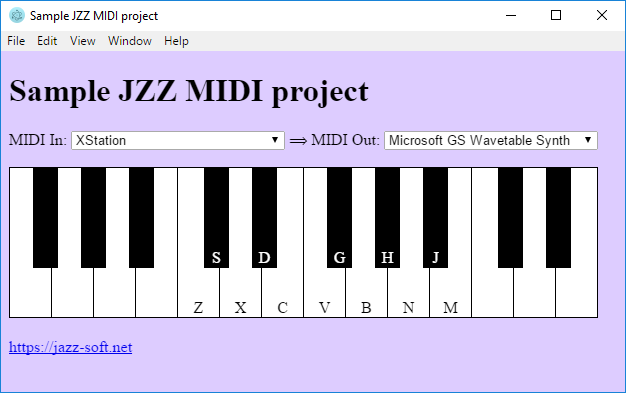
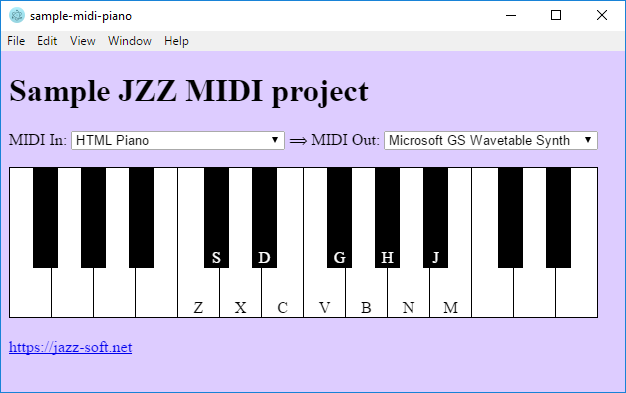
Adding another demo

Changed region(s): [[0.0304, 0.0305, 0.2732, 0.0611], [0.1214, 0.3359, 0.2428, 0.3664]]

diff --git a/sample-midi-player/index.js b/sample-midi-player/index.js
@@ -1,0 +1,49 @@
+const {app, BrowserWindow} = require('electron')
+const path = require('path')
+const url = require('url')
+
+// Keep a global reference of the window object, if you don't, the window will
+// be closed automatically when the JavaScript object is garbage collected.
+let win
+
+function createWindow () {
+  // Create the browser window.
+  win = new BrowserWindow({width: 640, height: 400})
+
+  // and load the index.html of the app.
+  win.loadURL(url.format({
+    pathname: path.join(__dirname, 'index.html'),
+    protocol: 'file:',
+    slashes: true
+  }))
+
+  // Emitted when the window is closed.
+  win.on('closed', () => {
+    // Dereference the window object, usually you would store windows
+    // in an array if your app supports multi windows, this is the time
+    // when you should delete the corresponding element.
+    win = null
+  })
+}
+
+// This method will be called when Electron has finished
+// initialization and is ready to create browser windows.
+// Some APIs can only be used after this event occurs.
+app.on('ready', createWindow)
+
+// Quit when all windows are closed.
+app.on('window-all-closed', () => {
+  // On macOS it is common for applications and their menu bar
+  // to stay active until the user quits explicitly with Cmd + Q
+  if (process.platform !== 'darwin') {
+    app.quit()
+  }
+})
+
+app.on('activate', () => {
+  // On macOS it's common to re-create a window in the app when the
+  // dock icon is clicked and there are no other windows open.
+  if (win === null) {
+    createWindow()
+  }
+})

diff --git a/sample-midi-player/index.html b/sample-midi-player/index.html
@@ -1,0 +1,33 @@
+<!DOCTYPE html>
+<html>
+<head>
+<meta charset="UTF-8">
+<title>sample-midi-player</title>
+<style type="text/css">
+body { background-color: #dcf; }
+.inner { position:absolute; bottom:0; left:0; width:100%; text-align:center; }
+select { width:16em; }
+</style>
+</head>
+<body>
+<h1>MIDI Player</h1>
+</body>
+<script><!--
+var shell = require('electron').shell;
+var JZZ = require('jzz');
+require('jzz-midi-smf')(JZZ);
+require('jzz-gui-player')(JZZ);
+require('jzz-synth-osc')(JZZ);
+
+// Register Web Audio synth to have at least one MIDI-Out port
+JZZ.synth.OSC.register('Web Audio');
+
+// JZZ() engine must be started after jazz-midi-electron is initialized
+require('jazz-midi-electron')().then(function() {
+
+var player = new JZZ.gui.Player();
+
+});
+
+--></script>
+</html>

diff --git a/sample-midi-piano/index.html b/sample-midi-piano/index.html
@@ -2,7 +2,7 @@
 <html>
 <head>
 <meta charset="UTF-8">
-<title>Sample JZZ MIDI project</title>
+<title>sample-midi-piano</title>
 <style type="text/css">
 body { background-color: #dcf; }
 .inner { position:absolute; bottom:0; left:0; width:100%; text-align:center; }

diff --git a/sample-midi-player/README.md b/sample-midi-player/README.md
@@ -1,4 +1,4 @@
-# Sample JZZ MIDI Piano project for Electron
+# Sample JZZ MIDI Player project for Electron
 
 ### Install
     npm install
@@ -18,8 +18,5 @@
 
 [![screenshot](screenshot.png)](https://github.com/jazz-soft/jazz-midi-electron/tree/master/sample-midi-piano)
 
-Listboxes will show more options
-if you connect a **MIDI instrument** to your computer
-AND/OR install the [**Jazz-Plugin**](https://jazz-soft.net).
 
 *Back to [**jazz-midi-electron**](https://github.com/jazz-soft/jazz-midi-electron).*
